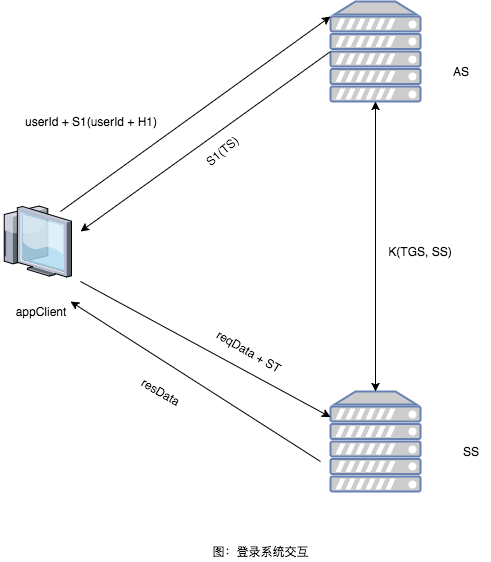
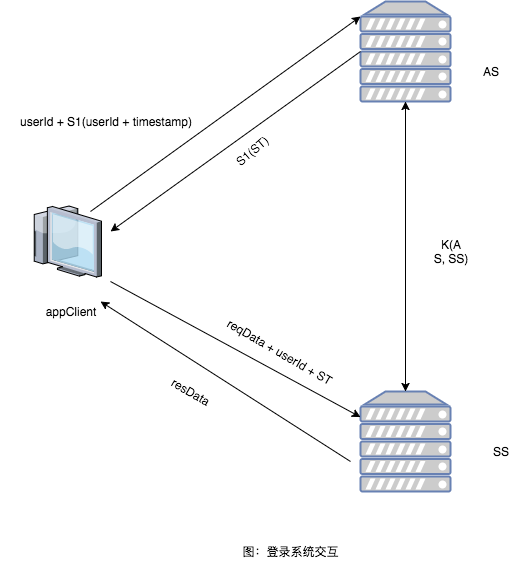
GitBook: [master] 2 pages and 7 assets modified

diff --git a/mo-kuai-jian-jie/server-mo-kuai.md b/mo-kuai-jian-jie/server-mo-kuai.md
@@ -44,14 +44,14 @@ msg是请求的返回message
 
 user\_id是新注册用户的id
 
-注册接口给用户分配一个userId，将userId和用户的S1保存起来，作为已经注册的用户标志。
+注册接口给用户分配一个userId，将userId和用户的H1保存起来，作为已经注册的用户标志。
 
 2、登录接口
 
 grpc接口
 
 ```cpp
-rpc loginAccount (loginRequest) returns (loginResponse) {}
+rpc loginAccount (loginRequest) returns (stream loginResponse) {}
 ```
 
 grpc请求结构体
@@ -63,7 +63,7 @@ message loginRequest {
 }
 ```
 
-user\_id是用户id，data是本系统的S1\(userId+timestamp\)，即以S1为公钥加密数据，server可以用S1解开后验证请求的的有效性
+user\_id是用户id，data是本系统的H1\(userId+timestamp\)，即以H1为公钥加密数据，server可以用H1解开后验证请求的的有效性
 
 grpc响应结构体
 
@@ -81,7 +81,9 @@ msg是请求的返回message
 
 st是本文的ST，即session ticket
 
-登录接口首先会用S1解开data数据，对比解密的userId是否和请求的userId一致，验证请求的有效性，然后会给登录请求下发一个session ticket，服务器从数据库中查询，st使用K\_AS\_SS作为公钥加密\(userId+timestamp+seq\)得到的session ticket，
+登录接口首先会用H1解开data数据，对比解密的userId是否和请求的userId一致，验证请求的有效性，然后会给登录请求下发一个session ticket，服务器从数据库中查询，st使用K\_AS\_SS作为公钥加密\(userId+timestamp+seq\)得到的session ticket。
+
+当该用户在其他设备登录后，可以通过服务器的stream推送一个下线的ret标志给对端客户端，强制对端客户端下线。
 
 3、session ticket校验接口
 
@@ -116,4 +118,6 @@ ret是校验接口的返回码
 msg是校验接口返回的消息
 
 验证session ticket，首先用K\_AS\_SS解密st，得到解密后的userId、timestamp、seq。对比userId是否和和请求的用户的userId相同，不同则说明请求无效，然后从数据库查询该用户的seq值，对比数据库的seq和解密后的seq，如果数据库seq不等于解密后的seq，说明该session ticket 已经是无效的了。最后如果验证都通过，则返回验证成功。这里verifyST接口可以部署在业务服务器，但是要维护业务服务器和AS之间的K\_AS\_SS。
+
+
 
